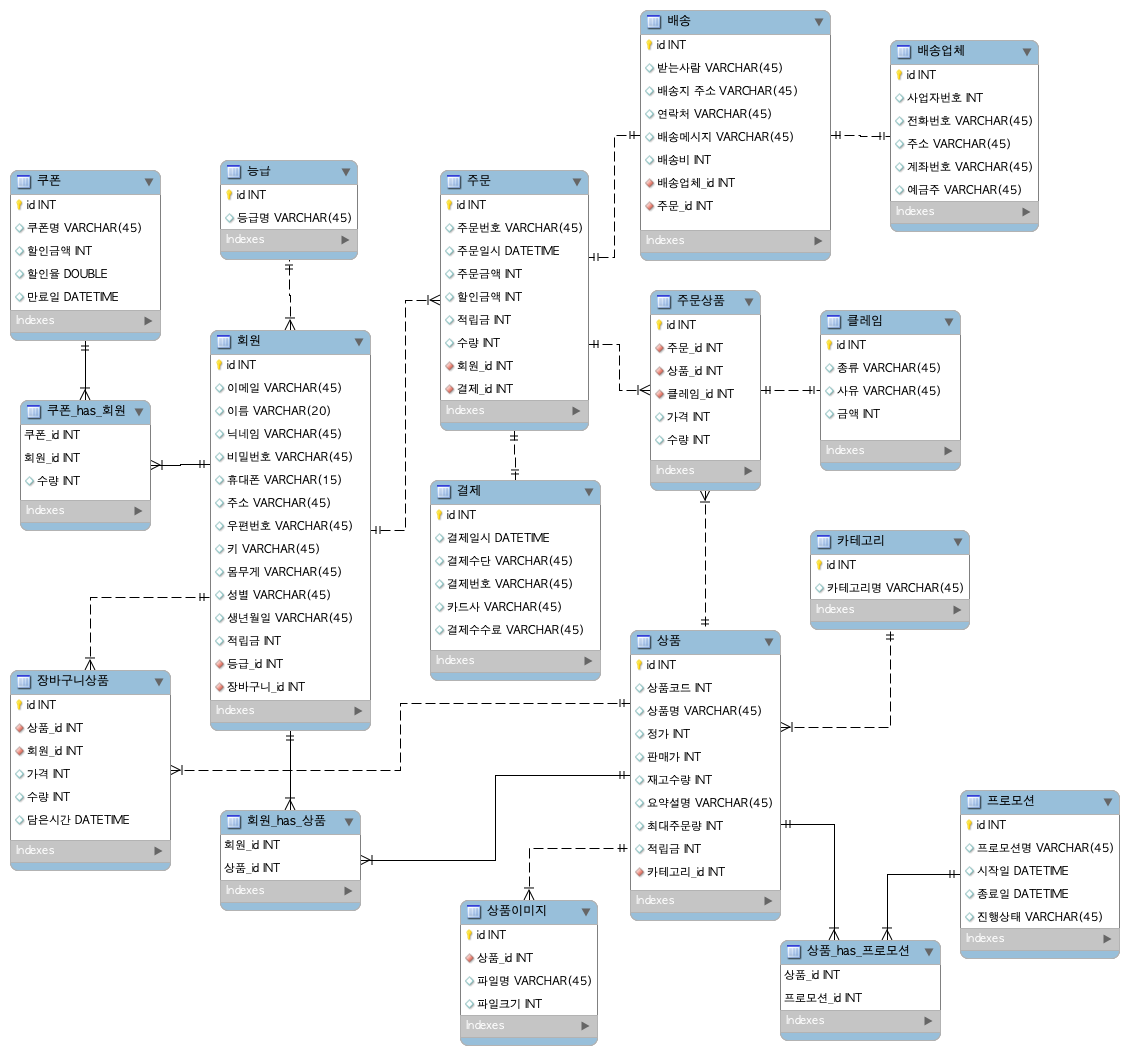
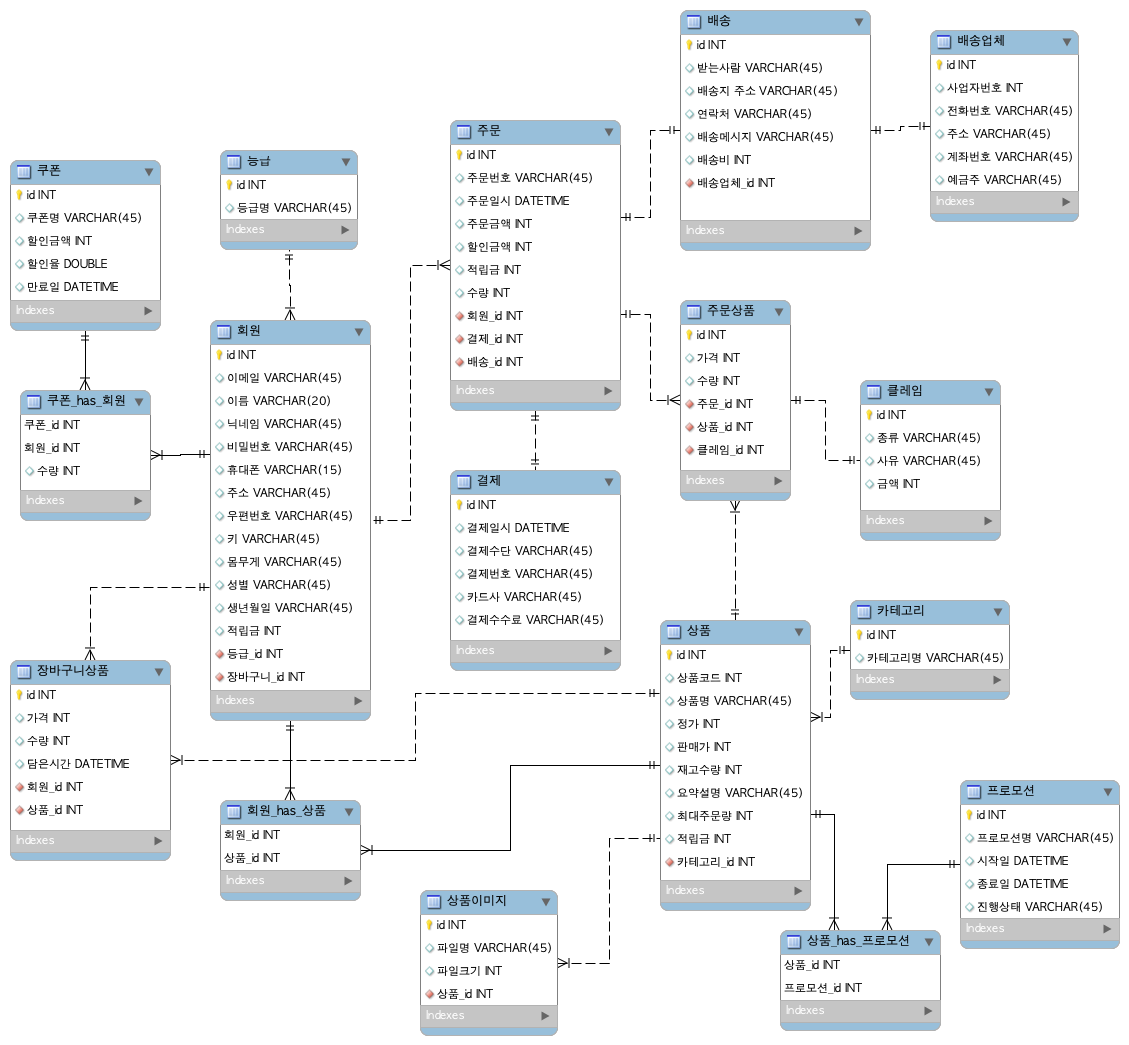
Modify Entities

diff --git a/projects/shopping/src/main/java/com/example/shopping/domain/Member.java b/projects/shopping/src/main/java/com/example/shopping/domain/Member.java
@@ -18,15 +18,16 @@ public class Member {
     @GeneratedValue(strategy = GenerationType.IDENTITY)
     private Long id;
 
+    @Column(length = 30, nullable = false)
     private String email;
 
     @Column(length = 20, nullable = false)
     private String name;
 
-    @Column(nullable = false)
+    @Column(length = 20, nullable = false)
     private String nickname;
 
-    @Column(nullable = false)
+    @Column(length = 20, nullable = false)
     private String password;
 
     @Column(length = 15, nullable = false)
@@ -44,20 +45,8 @@ public class Member {
     @Column(nullable = false)
     private int point;
 
-    @ManyToOne
-    @JoinColumn(name = "grade_id")
-    private Grade grade;
-
     @OneToMany(mappedBy = "member")
     private List<MemberCoupon> memberCoupons;
-
-    @OneToOne
-    @JoinColumn(name = "cart_id")
-    private Cart cart;
-
-//    @OneToOne
-//    @JoinColumn(name = "wish_list_id")
-//    private WishList wishList;
 
     @OneToMany(mappedBy = "member")
     private List<Ordering> orderings;
@@ -65,6 +54,15 @@ public class Member {
     @OneToOne
     @JoinColumn(name = "payment_id")
     private Payment payment;
+
+    @ManyToOne
+    @JoinColumn(name = "grade_id")
+    private Grade grade;
+
+    @OneToMany(mappedBy = "member")
+    private List<CartProduct> cartProducts;
+//    @JoinColumn(name = "cart_id")
+//    private CartProduct cartProduct;
 
     @ManyToMany
     @JoinTable(name = "member_product_list",

diff --git a/projects/shopping/src/main/java/com/example/shopping/domain/Cart.java b/projects/shopping/src/main/java/com/example/shopping/domain/Cart.java
@@ -1,33 +1,32 @@
-package com.example.shopping.domain;
-
-import lombok.Getter;
-import lombok.Setter;
-import lombok.ToString;
-
-import javax.persistence.*;
-import javax.validation.constraints.NotNull;
-import java.util.Date;
-import java.util.List;
-
-@Entity
-@Table(name = "cart")
-@Getter
-@Setter
-@ToString
-public class Cart {
-    @Id
-    @GeneratedValue(strategy = GenerationType.IDENTITY)
-    private Long id;
-
-    @Column(nullable = false)
-    private int quantity;
-
-    @Column(nullable = false)
-    private Date expDate;
-
-    @Column(nullable = false)
-    private int total;
-
-    @OneToMany(mappedBy = "cart")
-    private List<CartProduct> cartProducts;
-}
+//package com.example.shopping.domain;
+//
+//import lombok.Getter;
+//import lombok.Setter;
+//import lombok.ToString;
+//
+//import javax.persistence.*;
+//import java.util.Date;
+//import java.util.List;
+//
+//@Entity
+//@Table(name = "cart")
+//@Getter
+//@Setter
+//@ToString
+//public class Cart {
+//    @Id
+//    @GeneratedValue(strategy = GenerationType.IDENTITY)
+//    private Long id;
+//
+//    @Column(nullable = false)
+//    private int quantity;
+//
+//    @Column(nullable = false)
+//    private Date expDate;
+//
+//    @Column(nullable = false)
+//    private int total;
+//
+//    @OneToMany(mappedBy = "cart")
+//    private List<CartProduct> cartProducts;
+//}

diff --git a/projects/shopping/src/main/java/com/example/shopping/domain/CartProduct.java b/projects/shopping/src/main/java/com/example/shopping/domain/CartProduct.java
@@ -1,6 +1,5 @@
 package com.example.shopping.domain;
 
-import com.sun.org.apache.bcel.internal.generic.DADD;
 import lombok.Getter;
 import lombok.Setter;
 import lombok.ToString;
@@ -10,17 +9,24 @@ import java.util.Date;
 
 @Entity
 @Table(name = "cart_product")
-@IdClass(CartProductId.class)
+//@IdClass(CartProductId.class)
 @Getter
 @Setter
 @ToString
 public class CartProduct {
-    @Id
-    @ManyToOne
-    @JoinColumn(name = "cart_id")
-    private Cart cart;
+//    @Id
+//    @ManyToOne
+//    @JoinColumn(name = "cart_id")
+//    private Cart cart;
 
     @Id
+    @GeneratedValue(strategy = GenerationType.IDENTITY)
+    private Long id;
+
+    @ManyToOne
+    @JoinColumn(name = "member_id")
+    private Member member;
+
     @ManyToOne
     @JoinColumn(name = "product_id")
     private Product product;

diff --git a/projects/shopping/src/main/java/com/example/shopping/domain/Product.java b/projects/shopping/src/main/java/com/example/shopping/domain/Product.java
@@ -40,20 +40,14 @@ public class Product {
     private Category category;
 
     @OneToMany(mappedBy = "product")
-    private List<CartProduct> cartProducts;
-
-    @OneToMany(mappedBy = "product")
     private List<OrderedProduct> orderedProducts;
-
-//    @ManyToMany
-//    @JoinTable(name = "product_wish_list",
-//                joinColumns = @JoinColumn(name = "product_id"),
-//                inverseJoinColumns = @JoinColumn(name = "wish_list_id"))
-//    private List<WishList> wishLists;
 
     @ManyToMany
     @JoinTable(name = "product_promotion",
             joinColumns = @JoinColumn(name = "product_id"),
             inverseJoinColumns = @JoinColumn(name = "promotion_id"))
     private List<Promotion> promotions;
+
+    @OneToMany
+    private List<ProductImage> productImages;
 }

diff --git a/projects/shopping/src/main/java/com/example/shopping/domain/Ordering.java b/projects/shopping/src/main/java/com/example/shopping/domain/Ordering.java
@@ -29,6 +29,14 @@ public class Ordering {
     @JoinColumn(name = "member_id")
     private Member member;
 
+    @OneToOne
+    @JoinColumn(name = "payment_id")
+    private Payment payment;
+
     @OneToMany(mappedBy = "ordering")
     private List<OrderedProduct> orderedProducts;
+
+    @OneToOne
+    @JoinColumn(name = "delivery_id")
+    private Delivery delivery;
 }

diff --git a/projects/shopping/src/main/java/com/example/shopping/domain/Coupon.java b/projects/shopping/src/main/java/com/example/shopping/domain/Coupon.java
@@ -25,8 +25,7 @@ public class Coupon {
 
     private int discountPrice;
     private double discountRatio;
-    private Date expDate;
 
-//    @OneToMany(mappedBy = "coupon")
-//    private List<MemberCoupon> memberCoupons;
+    @Column(nullable = false)
+    private Date expDate;
 }

diff --git a/projects/shopping/src/main/java/com/example/shopping/domain/CartProductId.java b/projects/shopping/src/main/java/com/example/shopping/domain/CartProductId.java
@@ -3,7 +3,7 @@ package com.example.shopping.domain;
 import java.io.Serializable;
 
 public class CartProductId implements Serializable {
-    private Cart cart;
+    private CartProduct cartProduct;
     private Product product;
 
     @Override

diff --git a/projects/shopping/src/main/java/com/example/shopping/domain/DeliveryCompany.java b/projects/shopping/src/main/java/com/example/shopping/domain/DeliveryCompany.java
@@ -26,4 +26,8 @@ public class DeliveryCompany {
 
     private String accountNumber;
     private String depositor;
+
+    @OneToOne
+    @JoinColumn(name = "delivery_id")
+    private Delivery delivery;
 }

diff --git a/projects/shopping/src/main/java/com/example/shopping/domain/Claim.java b/projects/shopping/src/main/java/com/example/shopping/domain/Claim.java
@@ -23,4 +23,8 @@ public class Claim {
     private String reason;
 
     private int price;
+
+    @OneToOne
+    @JoinColumn(name = "ordered_product_id")
+    private OrderedProduct orderedProduct;
 }

diff --git a/projects/shopping/src/main/java/com/example/shopping/domain/Payment.java b/projects/shopping/src/main/java/com/example/shopping/domain/Payment.java
@@ -31,4 +31,8 @@ public class Payment {
 
     @Column(nullable = false)
     private int fee;
+
+    @OneToOne
+    @JoinColumn(name = "ordering_id")
+    private Ordering ordering;
 }
